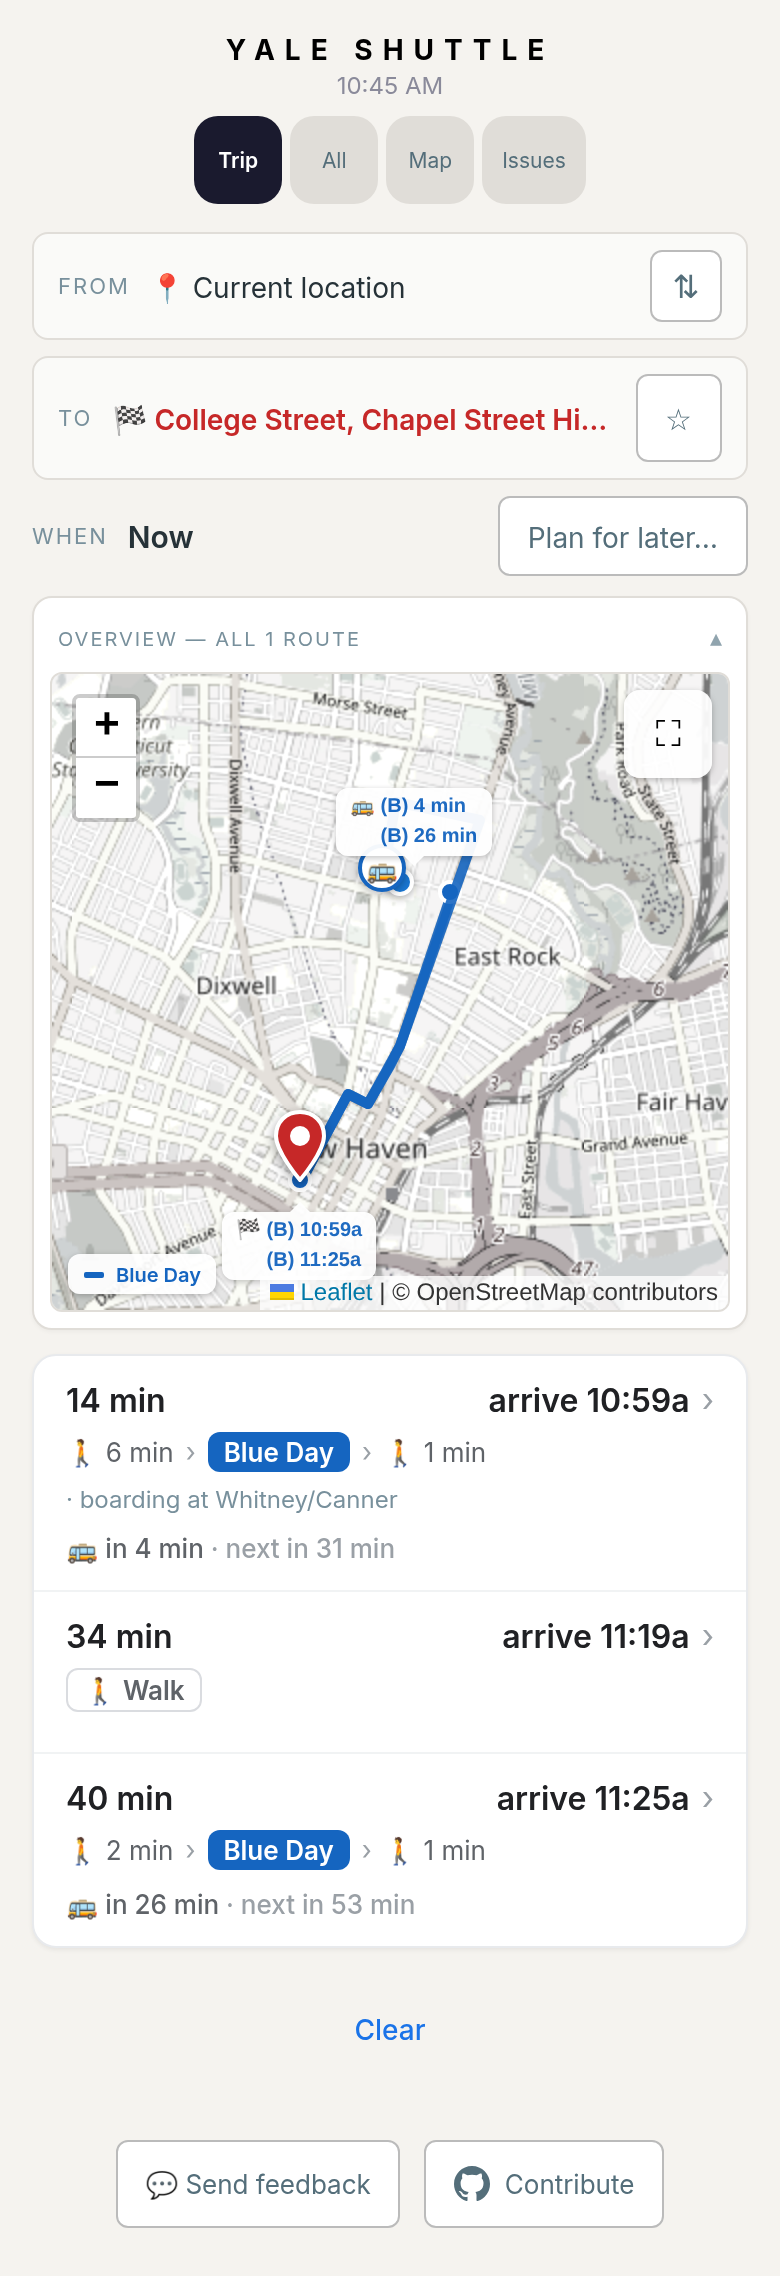
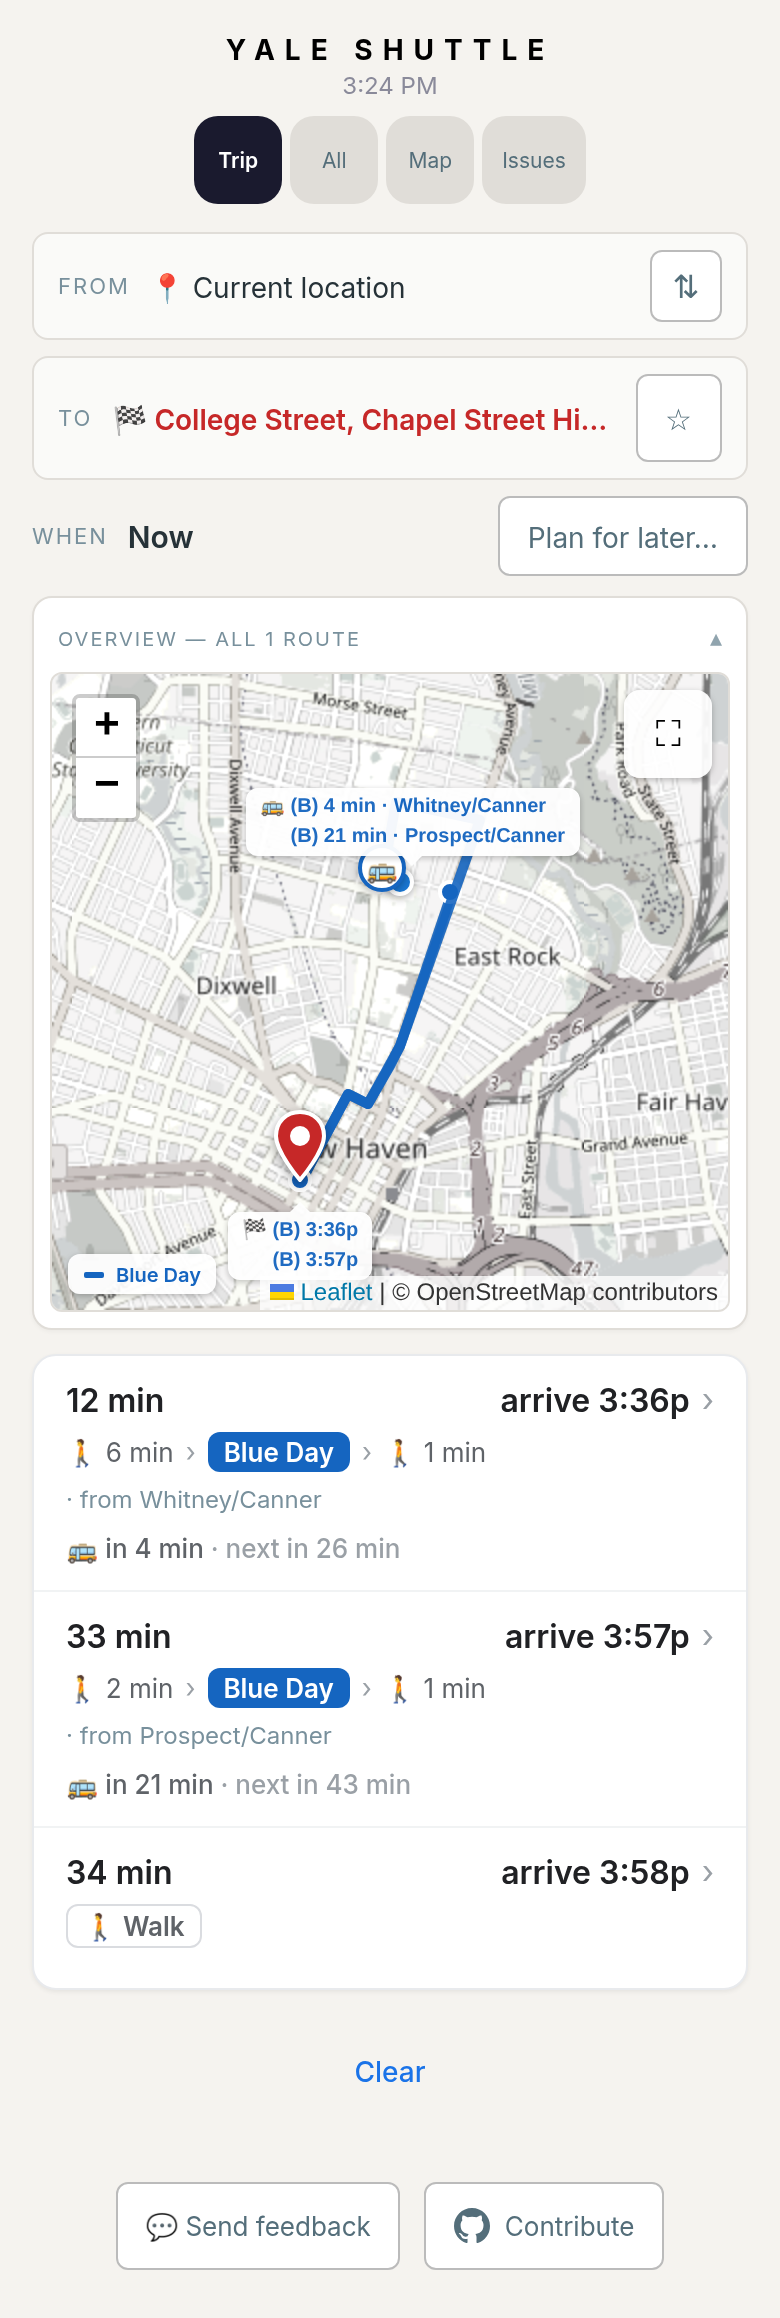
Say which stop each option picks up at, and name the stop on shared map labels
Both from the operator's review of this PR:

- Every shuttle card now carries "· from <stop>" on its chips row, not just
  the same-route alternates. A rider comparing two different routes wanted it
  too, and it is the one fact the chips row could not answer.
- With two itineraries on one route the overview map showed "(B) 4 min" and
  "(B) 21 min" — same tag, different stops — and when the labels merged the
  rider could not tell which time belonged where. The board chip now names
  its stop in exactly that case; one card per route keeps the short form.

Also merges master (PRs #8 and #9); the conflicts were import lists.
733 tests.

Claude-Session: https://claude.ai/code/session_01R6RZ3PXjPXGkAaecqr9Z1H

diff --git a/services/shuttle-v2/web/src/TransitMap.tsx b/services/shuttle-v2/web/src/TransitMap.tsx
@@ -821,6 +821,8 @@ const TripMap: FC<{
 // pin per matched bus, and no per-option upstream/walk ornamentation.
 type OverviewOption = {
   label: string;
+  /** Board-stop name, shown on the map only when two cards share a route. */
+  boardName?: string;
   color: string;
   segCoords: LatLon[];
   // Pre-sliced road polyline from the route's full path (when available).
@@ -881,7 +883,15 @@ const CombinedTripMap: FC<{
         // "(B) 4 min" — route-initial tag so a time is attributable to
         // its route even without judging the text color (user request
         // 2026-07-17; also helps color-blind riders).
-        const tagged = `(${o.label.charAt(0).toUpperCase()}) ${e.text}`;
+        // With two itineraries on one route (report #55) the board chips
+        // read "(B) 4 min" and "(B) 21 min" — same tag, different stops, and
+        // when they merge the rider cannot tell which time belongs where
+        // (operator, 2026-09-02). Name the stop on the board chip in exactly
+        // that case; one card per route keeps the short form.
+        const shared = optionsRef.current.filter((x) => x.label === o.label).length > 1;
+        const tagged = shared && e.kind === "board" && o.boardName
+          ? `(${o.label.charAt(0).toUpperCase()}) ${e.text} · ${o.boardName}`
+          : `(${o.label.charAt(0).toUpperCase()}) ${e.text}`;
         chips.push({
           lat: e.c.lat, lon: e.c.lon, kind: e.kind, label: o.label,
           part: `<span style="color:${o.color}">${tagged}</span>`,
@@ -3086,6 +3096,7 @@ const TripPlanner: FC<{
               const road = buildStopSequencePolyline(routePaths?.[cfg.routeIds[0]], segCoords);
               overviewOpts.push({
                 label: o.routeLabel,
+                boardName: (stopNames[o.boardStopId] ?? "").replace(/\s*\/\s*/g, "/"),
                 color: o.color,
                 segCoords,
                 road,
@@ -3333,13 +3344,15 @@ const TripPlanner: FC<{
                           <span style={{ fontSize: 13, color: "#5f6368" }}>🚶 {fmtWalk(o.walkFromSec)}</span>
                         </>
                       )}
-                      {/* Report #55: this card is the same route boarded at a
-                          different stop than the card next to it — say which. */}
-                      {o.viaAlternate && (
-                        <span style={{ fontSize: 12, color: "#78909c", whiteSpace: "nowrap" }}>
-                          · boarding at {(stopNames[o.boardStopId] ?? `Stop ${o.boardStopId}`).replace(/\s*\/\s*/g, "/")}
-                        </span>
-                      )}
+                      {/* Which stop it picks up at, on EVERY shuttle card
+                          (operator request, 2026-09-02). It was only on the
+                          same-route alternates, which is precisely when the
+                          reader most needs to compare — but a rider deciding
+                          between two different routes wants it too, and it is
+                          the one fact the chips row could not answer. */}
+                      <span style={{ fontSize: 12, color: "#78909c", whiteSpace: "nowrap" }}>
+                        · from {(stopNames[o.boardStopId] ?? `Stop ${o.boardStopId}`).replace(/\s*\/\s*/g, "/")}
+                      </span>
                     </>
                   )}
                 </div>
